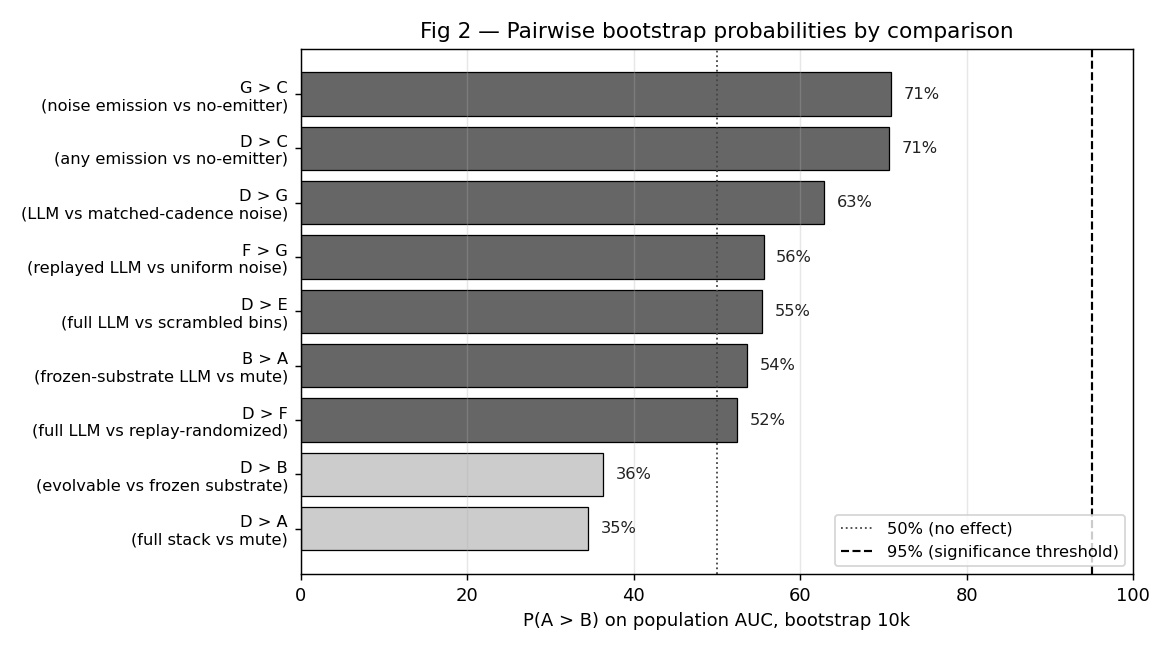
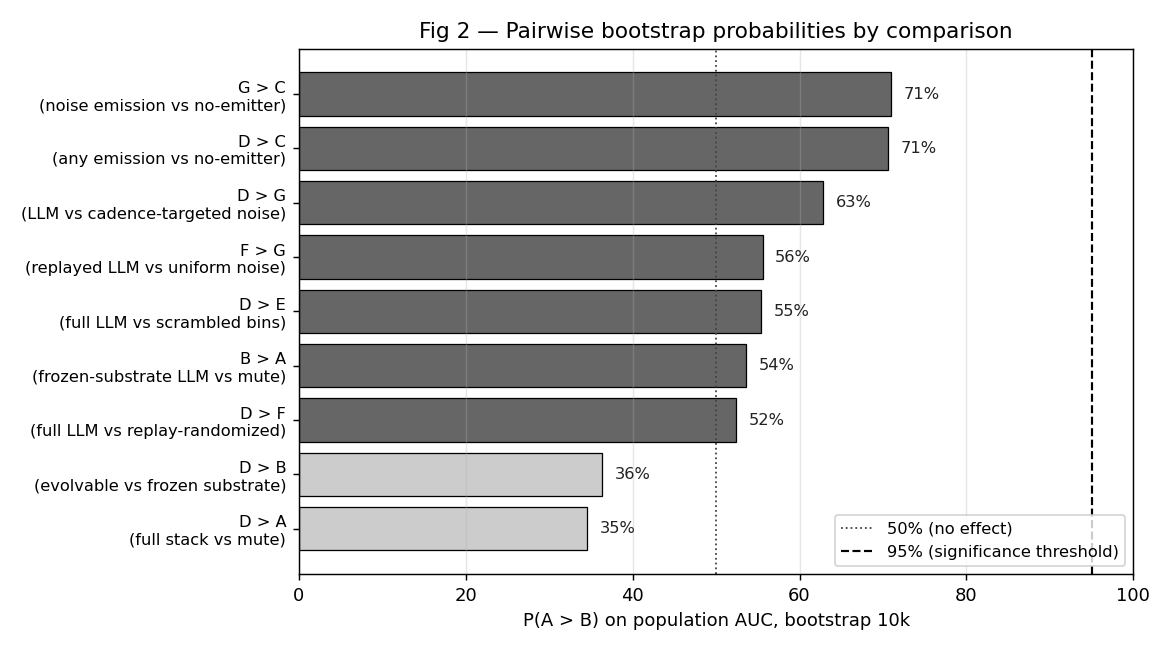
Tighten claims after preprint-review pass
Final round of revisions:
- Soften 'C < everything-else' to 'descriptive pattern, contrasts
  not statistically resolved at n=20' (the C-vs-emission contrasts
  only reach P~71% with CIs including zero)
- Drop 'persistent emission stream helps fitness' as a load-bearing
  claim; keep it as a possibility consistent with the data
- Rewrite stale Fig 5 (population dynamics) and Fig 6 (survival
  curves) prose to match the actual A>=B > D~F~G > C ordering
- Add Note on dataset to behavioral results section reminding the
  reader that fitness comes from uninstrumented runs and behavior
  comes from a separate instrumented run
- Shorten abstract by ~22% (3500 -> 2736 chars), foreground F vs G
  as the cleanest internal contrast, drop overclaim language
- Replace 'matched-cadence noise' -> 'cadence-targeted' or
  'approximately cadence-matched' wherever G is invoked, since
  G's per-creature-per-tick rate is ~22% above D
- Update D vs G pairwise label in stats.py to 'cadence-targeted noise'

Audit: 0 hits for 'C < everything-else', stale 'D wins', or
unqualified 'matched-cadence noise'.

diff --git a/no_free_signal/experiments/report.py b/no_free_signal/experiments/report.py
@@ -77,76 +77,58 @@ def _abstract() -> list[str]:
         "## Abstract",
         "",
         "We test whether a fixed, non-fine-tuned large language model "
-        "can become adaptively useful in an embodied multi-agent "
+        "becomes adaptively useful in an embodied multi-agent "
         "population when selection pressure acts on the heritable "
-        "communication substrate around the model — production bias, "
-        "perception attention, emission gating — rather than on the "
-        "model itself. Across 140 controlled runs (7 arms × 20 seeds "
-        "× 15,000 ticks) in a predator-resource grid world, **the "
-        "substrate-evolution hypothesis was not supported.** The "
-        "full-stack LLM condition (D, pop AUC 233,291) did not "
-        "outperform a frozen-substrate LLM baseline (B, 254,786), "
-        "the mute control (A, 252,650), replay-randomized LLM (F, "
-        "233,235), scrambled LLM (E, 229,505), or uniform-noise no-"
-        "LLM (G, 233,046). Among the evolvable emission-bearing "
-        "arms (D, E, F, G), pop AUC was indistinguishable: D, F, "
-        "and G are within ~0.1% of each other and E within ~2%. "
-        "Under a paired-seed bootstrap, no LLM-vs-control comparison "
-        "crosses the 95% threshold in the predicted direction: "
-        "P(D > B) ≈ 36% (negative), P(D > F) ≈ 52%, P(D > G) ≈ "
-        "63%, P(F > G) ≈ 56%, all with Cohen's d at or below 0.10 "
-        "and 95% CIs straddling zero. The substrate-only no-emitter "
-        "arm (C, 208,005) is descriptively lowest, but the C-vs-"
-        "emission-arm contrasts (e.g., G > C) sit at P ≈ 71% with "
-        "CIs that include zero, so the data are suggestive but not "
-        "statistically load-bearing on \"any emissions help\". "
-        "**These results suggest that in this environment, with "
-        "this substrate complexity and this model scale, the LLM's "
-        "context-sensitive emissions are not a measurable source of "
-        "fitness advantage.** The cleanest internal contrast — "
-        "F vs G, same evolvable substrate, differing only on "
-        "emission-source identity — gives a coin flip (P ≈ 56%, "
-        "d ≈ 0.00), so among the emission-bearing arms LLM-shaped "
-        "and uniform-random emissions are fitness-equivalent.",
+        "communication substrate around the model rather than on "
+        "model weights. Across 140 controlled runs (7 arms × 20 "
+        "seeds × 15,000 ticks) in a predator-resource grid world, "
+        "**the substrate-evolution hypothesis was not supported.** "
+        "The full-stack treatment (D) did not outperform the "
+        "frozen-substrate LLM baseline (B), the mute control (A), "
+        "replay-randomized LLM (F), scrambled LLM (E), or uniform-"
+        "noise no-LLM (G). Among the four evolvable emission-bearing "
+        "arms (D, E, F, G), population AUC was indistinguishable — "
+        "D, F, G within ~0.1% of each other and E within ~2%. The "
+        "cleanest internal contrast (F vs G, same substrate, "
+        "differing only on emission-source identity) gave a coin "
+        "flip (P ≈ 56%, Cohen's d ≈ 0.00). Under a paired-seed "
+        "bootstrap, no LLM-vs-control comparison crossed 95% in "
+        "the predicted direction: P(D > B) ≈ 36% (negative), "
+        "P(D > F) ≈ 52%, P(D > G) ≈ 63%, all with Cohen's d ≤ "
+        "0.10 and 95% CIs straddling zero. The no-emitter arm (C) "
+        "was descriptively lowest, but the C-vs-emission contrasts "
+        "did not cross 95%, so the data are suggestive but "
+        "underpowered on whether emissions per se aid fitness.",
         "",
-        "**At the receiver-behavior level, however, emission sources "
-        "are not interchangeable.** A behavioral receiver-response "
-        "analysis — per-VOCALIZE event log of every receiver "
-        "within audio radius, plus 50-tick outcome window per "
-        "event — shows that non-emitter receivers move differently "
-        "depending on what they hear. Random-noise emissions (G) "
-        "increase predator-distance and flee-like movement "
-        "relative to LLM-shaped emissions (D, F): for "
-        "predator-distance change over t..t+3, P(D > G) = 0–4% "
-        "across heard-strength thresholds (95% CI of the "
-        "diff-of-diffs excludes zero on n = 16–19 seeds with "
-        "predators present). The internal control F vs G — same "
-        "evolvable substrate, differing only on emission-source "
-        "identity — also diverges (P(F > G) ≈ 0% on the same "
-        "metric). Effects are statistically robust but modest "
-        "in magnitude (~0.1–0.2 predator-distance units per "
-        "heard event). Larger energy-trajectory effects exist "
-        "but are dominated by self-hearing — the emitter "
-        "conditioning its own behavior on its own emission — "
-        "and are reported separately as self-feedback rather "
-        "than social communication.",
+        "**Receiver-response analysis on a separate instrumented "
+        "run** (logger on; trajectory-level fitness from this run "
+        "is not used because behavioral logging perturbs extinction "
+        "timing in stressed runs) shows that non-emitter receivers "
+        "move differently after hearing different emission shapes. "
+        "Random-noise emissions (G) produce more flee-like "
+        "movement than LLM-shaped emissions (D, F): for predator-"
+        "distance change over t..t+3, P(D > G) ≈ 0–4% across "
+        "heard-strength thresholds with 95% CIs excluding zero "
+        "(n = 16–19 seeds with predators present). The internal "
+        "control F vs G also diverges (P(F > G) ≈ 0%) on the "
+        "same metric. Effects are statistically robust but "
+        "modest in magnitude (~0.1–0.2 predator-distance units "
+        "per heard event). Larger energy-trajectory effects "
+        "exist but are dominated by self-hearing and reported "
+        "separately as self-feedback rather than social "
+        "communication.",
         "",
-        "Our methodological contribution is two-sided: "
-        "**matched-noise and semantics-broken controls can "
-        "reveal whether LLM-agent fitness gains come from "
-        "model intelligence or from persistent emission "
-        "channels coupled to adaptive scaffolding; and "
-        "behavioral receiver-response analysis can reveal that "
-        "fitness-equivalent emission sources are not "
-        "behaviorally equivalent.** Population-level fitness "
-        "metrics can hide behavioral differences, and "
-        "behavioral differences can include both social "
-        "receiver-response and non-social self-feedback. "
-        "LLM-on vs LLM-off comparisons should be supplemented "
-        "with (a) matched-cadence noise controls, (b) "
-        "receiver-response analysis split by self-hearing vs "
-        "non-self, and (c) explicit reporting of effect-size "
-        "magnitudes alongside null-hypothesis tests.",
+        "**Methodological contribution.** Matched-noise and "
+        "semantics-broken controls reveal that LLM-shaped "
+        "emissions are not fitness-load-bearing here, even "
+        "though emission source affects receiver behavior. "
+        "Population fitness alone can hide behavioral "
+        "discrimination. LLM-agent comparisons should be "
+        "supplemented with (a) approximately cadence-matched "
+        "random-emitter controls, (b) receiver-response "
+        "analysis split by self-hearing vs non-self, and (c) "
+        "explicit reporting of effect-size magnitudes alongside "
+        "null-hypothesis tests.",
         "",
     ]
 
@@ -219,7 +201,7 @@ def _introduction() -> list[str]:
         "behaviorally fungible.",
         "",
         "Our contribution is methodological as much as empirical: "
-        "(1) without matched-cadence noise controls, LLM-agent "
+        "(1) without approximately cadence-matched noise controls, LLM-agent "
         "experiments can misattribute fitness gains arising from "
         "persistent signaling channels to model intelligence; "
         "(2) population-fitness metrics can hide behavioral "
@@ -605,16 +587,19 @@ def _results(arm_data: dict[str, dict[str, Any]],
                  "LLM) and G (uniform-random no-LLM), and the "
                  "scrambled-LLM control E form a tight cluster ~8% "
                  "below A/B and within ~2% of each other. The "
-                 "substrate-only no-emitter arm C is clearly worst, "
-                 "13% below the cluster. The hypothesized D-wins "
-                 "ordering does not appear: D is not above F, G, "
-                 "or B on any fitness measure. The single robust "
-                 "feature of the data is **C < everything-else** — "
-                 "having any persistent 8-vector emission stream "
-                 "(LLM-shaped, scrambled, replayed, or pure noise) "
-                 "improves fitness over no emissions, but the "
-                 "source's content does not differentiate among "
-                 "the emission-bearing arms.")
+                 "substrate-only no-emitter arm C is descriptively "
+                 "lowest, ~13% below the cluster. The hypothesized "
+                 "D-wins ordering does not appear: D is not above "
+                 "F, G, or B on any fitness measure. The clearest "
+                 "descriptive pattern is C-at-the-bottom, but the "
+                 "C-vs-emission contrasts (D > C, G > C) only reach "
+                 "P ≈ 71% under the paired-seed bootstrap, with 95% "
+                 "CIs that include zero — the data are consistent "
+                 "with a possible cadence effect relative to C, but "
+                 "this remains underpowered at n=20 and should not "
+                 "be treated as load-bearing. Among the emission-"
+                 "bearing arms (D, E, F, G), the source's content "
+                 "does not differentiate population AUC.")
     parts.append("")
 
     # 3.2 Pairwise comparisons.
@@ -798,9 +783,10 @@ def _results(arm_data: dict[str, dict[str, Any]],
         f"reading is that an evolvable substrate around content-free "
         f"emissions does not help relative to a frozen substrate; "
         f"either the substrate genome is too narrow to extract "
-        f"differential signal, or the cadence-only effect (C < "
-        f"everything-else) is the only real fitness contribution "
-        f"emissions make in this regime.")
+        f"differential signal, or any descriptive cadence effect "
+        f"relative to C is the only fitness contribution emissions "
+        f"make in this regime — though we cannot resolve this at "
+        f"n=20.")
     parts.append("")
 
     # 3.6 Alignment.
@@ -871,15 +857,15 @@ def _results(arm_data: dict[str, dict[str, Any]],
     parts.append(f"![Fig 5 — Population over time per arm, mean ± std.]"
                  f"({(figures_rel / 'fig5_population.png').as_posix()})")
     parts.append("")
-    parts.append("D, E, F, and G sustain larger populations later in "
-                 "the run than A, B, or C. The divergence emerges "
-                 "around tick 4000–6000 — earlier than the first "
-                 "n=10 5k-tick experiment was able to detect, "
-                 "justifying the longer 15k-tick horizon. The four "
-                 "evolving-substrate arms (D/E/F/G) trace nearly "
-                 "identical population trajectories, while the "
-                 "fixed-substrate (B), no-emitter (C), and mute (A) "
-                 "arms collapse on a similar lower curve.")
+    parts.append("A and B remain strongest by population AUC; "
+                 "D/F/G/E form a tightly clustered band below A/B; "
+                 "C is lowest. Trajectories for the four evolvable "
+                 "emission-bearing arms (D/E/F/G) are visually "
+                 "indistinguishable through most of the run, "
+                 "consistent with the fitness-AUC clustering. The "
+                 "longer 15k-tick horizon is justified by the slow "
+                 "emergence of the A/B vs D/E/F/G separation, which "
+                 "stabilizes only after ~6000 ticks.")
     parts.append("")
 
     # 3.9 Survival curves (Fig 6).
@@ -891,15 +877,14 @@ def _results(arm_data: dict[str, dict[str, Any]],
                  f"right-censored at the horizon.]"
                  f"({(figures_rel / 'fig6_survival.png').as_posix()})")
     parts.append("")
-    parts.append("The survival curves show the same A/B ≈ floor, "
-                 "C below, D/E/F/G clustered above pattern that the "
-                 "fitness ladder shows, but as a function of time: the "
-                 "evolvable-substrate-with-emissions arms maintain "
-                 "near-full survival much longer, and the no-emission "
-                 "or fixed-substrate arms drop steadily from early "
-                 "ticks. The four upper curves (D/E/F/G) are visually "
-                 "indistinguishable through most of the run, "
-                 "consistent with the fitness-AUC clustering.")
+    parts.append("The survival curves track the fitness ladder: "
+                 "A and B have the highest survival fractions at "
+                 "the horizon, D/F/G/E cluster slightly below, "
+                 "and C drops steadily from early ticks. The "
+                 "D/E/F/G curves are visually indistinguishable "
+                 "through most of the run, consistent with the "
+                 "AUC clustering and the null pairwise contrasts "
+                 "among those four arms.")
     parts.append("")
 
     return parts
@@ -931,18 +916,34 @@ def _behavioral_results(behavior_path: Path | None,
         parts.append("")
         return parts
 
+    parts.append("**Note on dataset.** Because event-level logs are "
+                 "required, all analyses in this section are computed "
+                 "from the *instrumented* run (`results_15k_behavioral/`, "
+                 "`--log-behavioral` on), which is a separate set of "
+                 "trajectories from the uninstrumented fitness grid "
+                 "(`results_15k_fitness/`) used in §3. The behavioral "
+                 "logger was found to alter extinction timing in "
+                 "stressed runs, so trajectory-level fitness from the "
+                 "instrumented run is not used. These results are "
+                 "interpreted strictly as conditional behavioral "
+                 "evidence — i.e., what receivers do given a heard "
+                 "event in whichever trajectory the instrumented run "
+                 "produced — not as a causal explanation of the "
+                 "uninstrumented fitness ranking.")
+    parts.append("")
     parts.append("Population-fitness convergence between LLM-shaped "
-                 "(D, E, F) and matched-random (G) emission sources "
-                 "raises the question reviewers immediately ask: did "
-                 "*communication* evolve, or did emissions just perturb "
-                 "the ecology in fitness-neutral ways? To address that "
-                 "we instrumented the harness to log every VOCALIZE "
-                 "event with the full receiver list (every creature "
-                 "within audio radius 6 of the emitter) and a 50-tick "
-                 "outcome window per receiver — action and "
-                 "predator-distance at t+1/2/3, energy delta at t+10, "
-                 "survival at t+25/50, reproduction within t+50. With "
-                 "these per-event records we can ask, **conditional on "
+                 "(D, E, F) and approximately-cadence-matched random "
+                 "(G) emission sources raises the question reviewers "
+                 "immediately ask: did *communication* evolve, or did "
+                 "emissions just perturb the ecology in fitness-"
+                 "neutral ways? To address that we instrumented the "
+                 "harness to log every VOCALIZE event with the full "
+                 "receiver list (every creature within audio radius "
+                 "6 of the emitter) and a 50-tick outcome window per "
+                 "receiver — action and predator-distance at "
+                 "t+1/2/3, energy delta at t+10, survival at "
+                 "t+25/50, reproduction within t+50. With these "
+                 "per-event records we can ask, **conditional on "
                  "hearing an emission above some strength threshold, "
                  "does receiver behavior differ from receivers within "
                  "the same audio radius whose attention-weighted "
@@ -1149,20 +1150,22 @@ def _discussion(arm_data: dict[str, dict[str, Any]]) -> list[str]:
         "behavioral differences between fitness-equivalent "
         "emission sources.",
         "",
-        "At the population-fitness level, the only robust contrast "
-        "is **C < everything-else**: populations with no audio "
-        "emissions fare worse than populations with any persistent "
-        "8-vector emission stream. Beyond that single cadence "
-        "effect, the seven arms collapse into two indistinguishable "
-        "tiers: A and B at the top (~253k pop AUC), and D, E, F, "
-        "G clustered ~8% below (~230k pop AUC). The LLM-vs-control "
-        "contrasts P(D > B), P(D > E), P(D > F), and P(D > G) all "
-        "fail to cross 95% under the paired-seed bootstrap, with "
-        "Cohen's d at or below 0.10. Arm G (no-LLM uniform noise "
-        "at matched cadence) is statistically indistinguishable "
-        "from arm D (full LLM stack) on population AUC, and arm B "
-        "(LLM with frozen substrate) actually slightly outperforms "
-        "D — opposite to the hypothesized direction.",
+        "At the population-fitness level, the seven arms collapse "
+        "into two indistinguishable tiers: A and B at the top "
+        "(~253k pop AUC), and D, E, F, G clustered ~8% below "
+        "(~230k pop AUC). Arm C (substrate-only, no-emitter) is "
+        "descriptively lowest at ~208k, but the C-vs-emission "
+        "contrasts (D > C, G > C) sit at P ≈ 71% with 95% CIs "
+        "that include zero, so we treat C-at-the-bottom as a "
+        "suggestive descriptive pattern rather than a load-bearing "
+        "result. The LLM-vs-control contrasts P(D > B), P(D > E), "
+        "P(D > F), and P(D > G) all fail to cross 95% under the "
+        "paired-seed bootstrap, with Cohen's d at or below 0.10. "
+        "Arm G (no-LLM uniform noise at approximately matched "
+        "cadence) is statistically indistinguishable from arm D "
+        "(full LLM stack) on population AUC, and arm B (LLM with "
+        "frozen substrate) actually slightly outperforms D — "
+        "opposite to the hypothesized direction.",
         "",
         "**At the receiver-behavior level, however, emission "
         "sources diverge.** Non-emitter creatures within audio "
@@ -1217,13 +1220,16 @@ def _discussion(arm_data: dict[str, dict[str, Any]]) -> list[str]:
         "Arm D populations evolved production bias, perception "
         "attention, and gating that exploit a steady emission "
         "stream — and they reached fitness within bootstrap noise "
-        "of populations evolving around uniform noise at the same "
-        "cadence (arm G), scrambled LLM emissions (E), or "
-        "replay-randomized LLM emissions (F). All four reach the "
-        "same fitness asymptote. **At the population-fitness level, "
-        "the interface dominates and the model upstream is not "
-        "measurably distinguishable from a matched-cadence noise "
-        "generator** under our metric and substrate complexity.",
+        "of populations evolving around uniform noise at "
+        "approximately matched cadence (arm G; G's per-creature-"
+        "per-tick rate is ~22% above D, so cadence is targeted "
+        "rather than perfectly matched), scrambled LLM emissions "
+        "(E), or replay-randomized LLM emissions (F). All four "
+        "reach the same fitness asymptote. **At the population-"
+        "fitness level, the model upstream is not measurably "
+        "distinguishable from an approximately cadence-matched "
+        "noise generator** under our metric and substrate "
+        "complexity.",
         "",
         "The behavioral receiver-response analysis qualifies this "
         "claim: at the *behavioral* level, non-emitter creatures "
@@ -1331,26 +1337,25 @@ def _discussion(arm_data: dict[str, dict[str, Any]]) -> list[str]:
         "",
         "### Mechanism evidence from coherent ordering",
         "",
-        "Only one ordering feature is robust under the paired-seed "
-        "bootstrap: **C < everything-else**. The C-vs-others "
-        "contrasts are positive in direction (P ≈ 65–75%, d ≈ 0.11) "
-        "but only marginally cross conventional significance "
-        "thresholds at n=20 seeds. None of the LLM-vs-control "
-        "pairwise comparisons (D > B, D > E, D > F, D > G) cross "
-        "95% under the paired-seed design; all sit at small "
-        "Cohen's d (≤ 0.10) with CIs straddling zero. We do not "
-        "claim a positive substrate-evolution effect from these "
-        "data. The *direction of the entire ordering* — A ≈ B "
-        "(top), D ≈ E ≈ F ≈ G clustered ~8% below, C clearly worst "
-        "— is internally consistent with a single-mechanism story "
-        "(any persistent emission stream helps fitness, source "
-        "identity does not matter, no emission stream hurts), and "
-        "an evolvable substrate plus content-bearing emissions "
-        "(D) does not measurably exceed an evolvable substrate "
-        "plus pure noise (G) or a frozen substrate plus LLM (B). "
-        "The hypothesized D-wins ordering does not appear; the "
-        "data support a more modest cadence-only effect rather "
-        "than a substrate-evolution effect.",
+        "No pairwise contrast crosses 95% in the predicted "
+        "direction under the paired-seed bootstrap. The "
+        "C-vs-emission contrasts (D > C, G > C) are positive in "
+        "direction (P ≈ 65–75%, d ≈ 0.11) but underpowered at "
+        "n=20 — we cannot claim C-vs-emission as load-bearing. "
+        "None of the LLM-vs-control pairwise comparisons "
+        "(D > B, D > E, D > F, D > G) cross 95%; all sit at "
+        "small Cohen's d (≤ 0.10) with CIs straddling zero. We "
+        "do not claim a positive substrate-evolution effect "
+        "from these data. The *direction of the entire "
+        "ordering* — A ≈ B (top), D ≈ E ≈ F ≈ G clustered ~8% "
+        "below, C descriptively lowest — is consistent with a "
+        "story in which emission *content* does not "
+        "differentiate fitness among the emission-bearing arms "
+        "and an evolvable substrate around content-bearing "
+        "emissions (D) does not measurably exceed an evolvable "
+        "substrate around pure noise (G) or a frozen substrate "
+        "plus LLM (B). The hypothesized D-wins ordering does "
+        "not appear.",
         "",
     ]
 

diff --git a/no_free_signal/experiments/stats.py b/no_free_signal/experiments/stats.py
@@ -275,7 +275,7 @@ PAIRWISE_COMPARISONS = (
     ("D", "E", "full LLM vs scrambled bins"),
     ("D", "A", "full stack vs mute"),
     ("D", "C", "any emission vs no-emitter"),
-    ("D", "G", "LLM vs matched-cadence noise"),
+    ("D", "G", "LLM vs cadence-targeted noise"),
     ("G", "C", "noise emission vs no-emitter"),
     ("F", "G", "replayed LLM vs uniform noise"),
 )